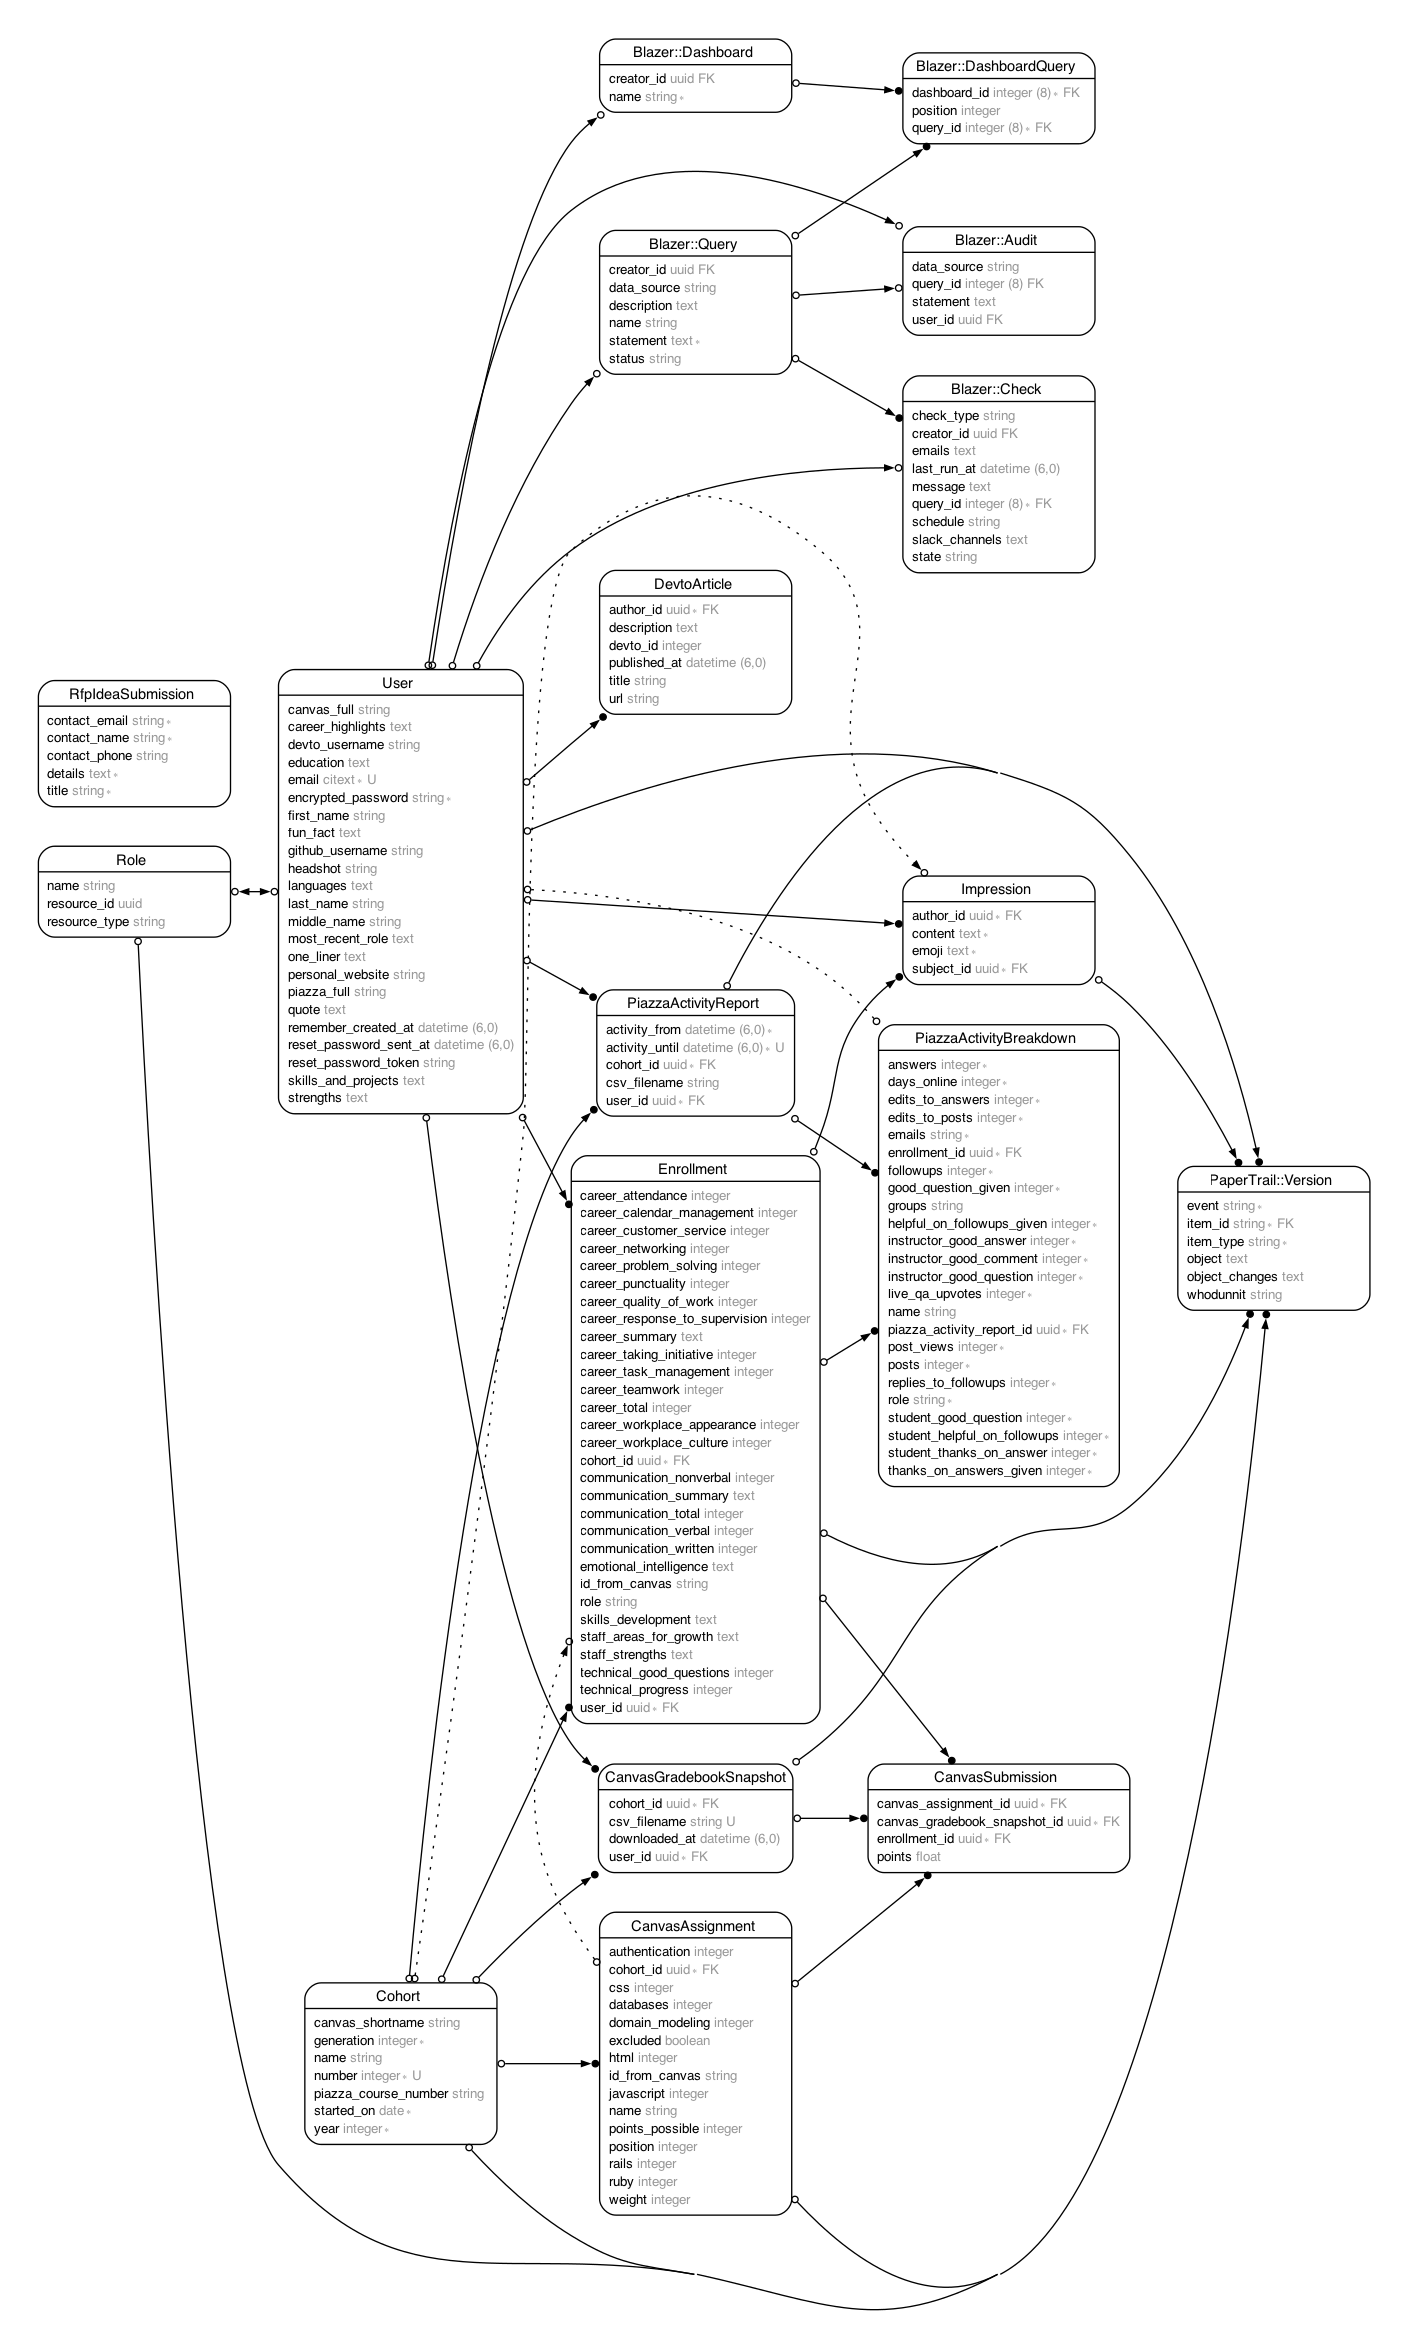
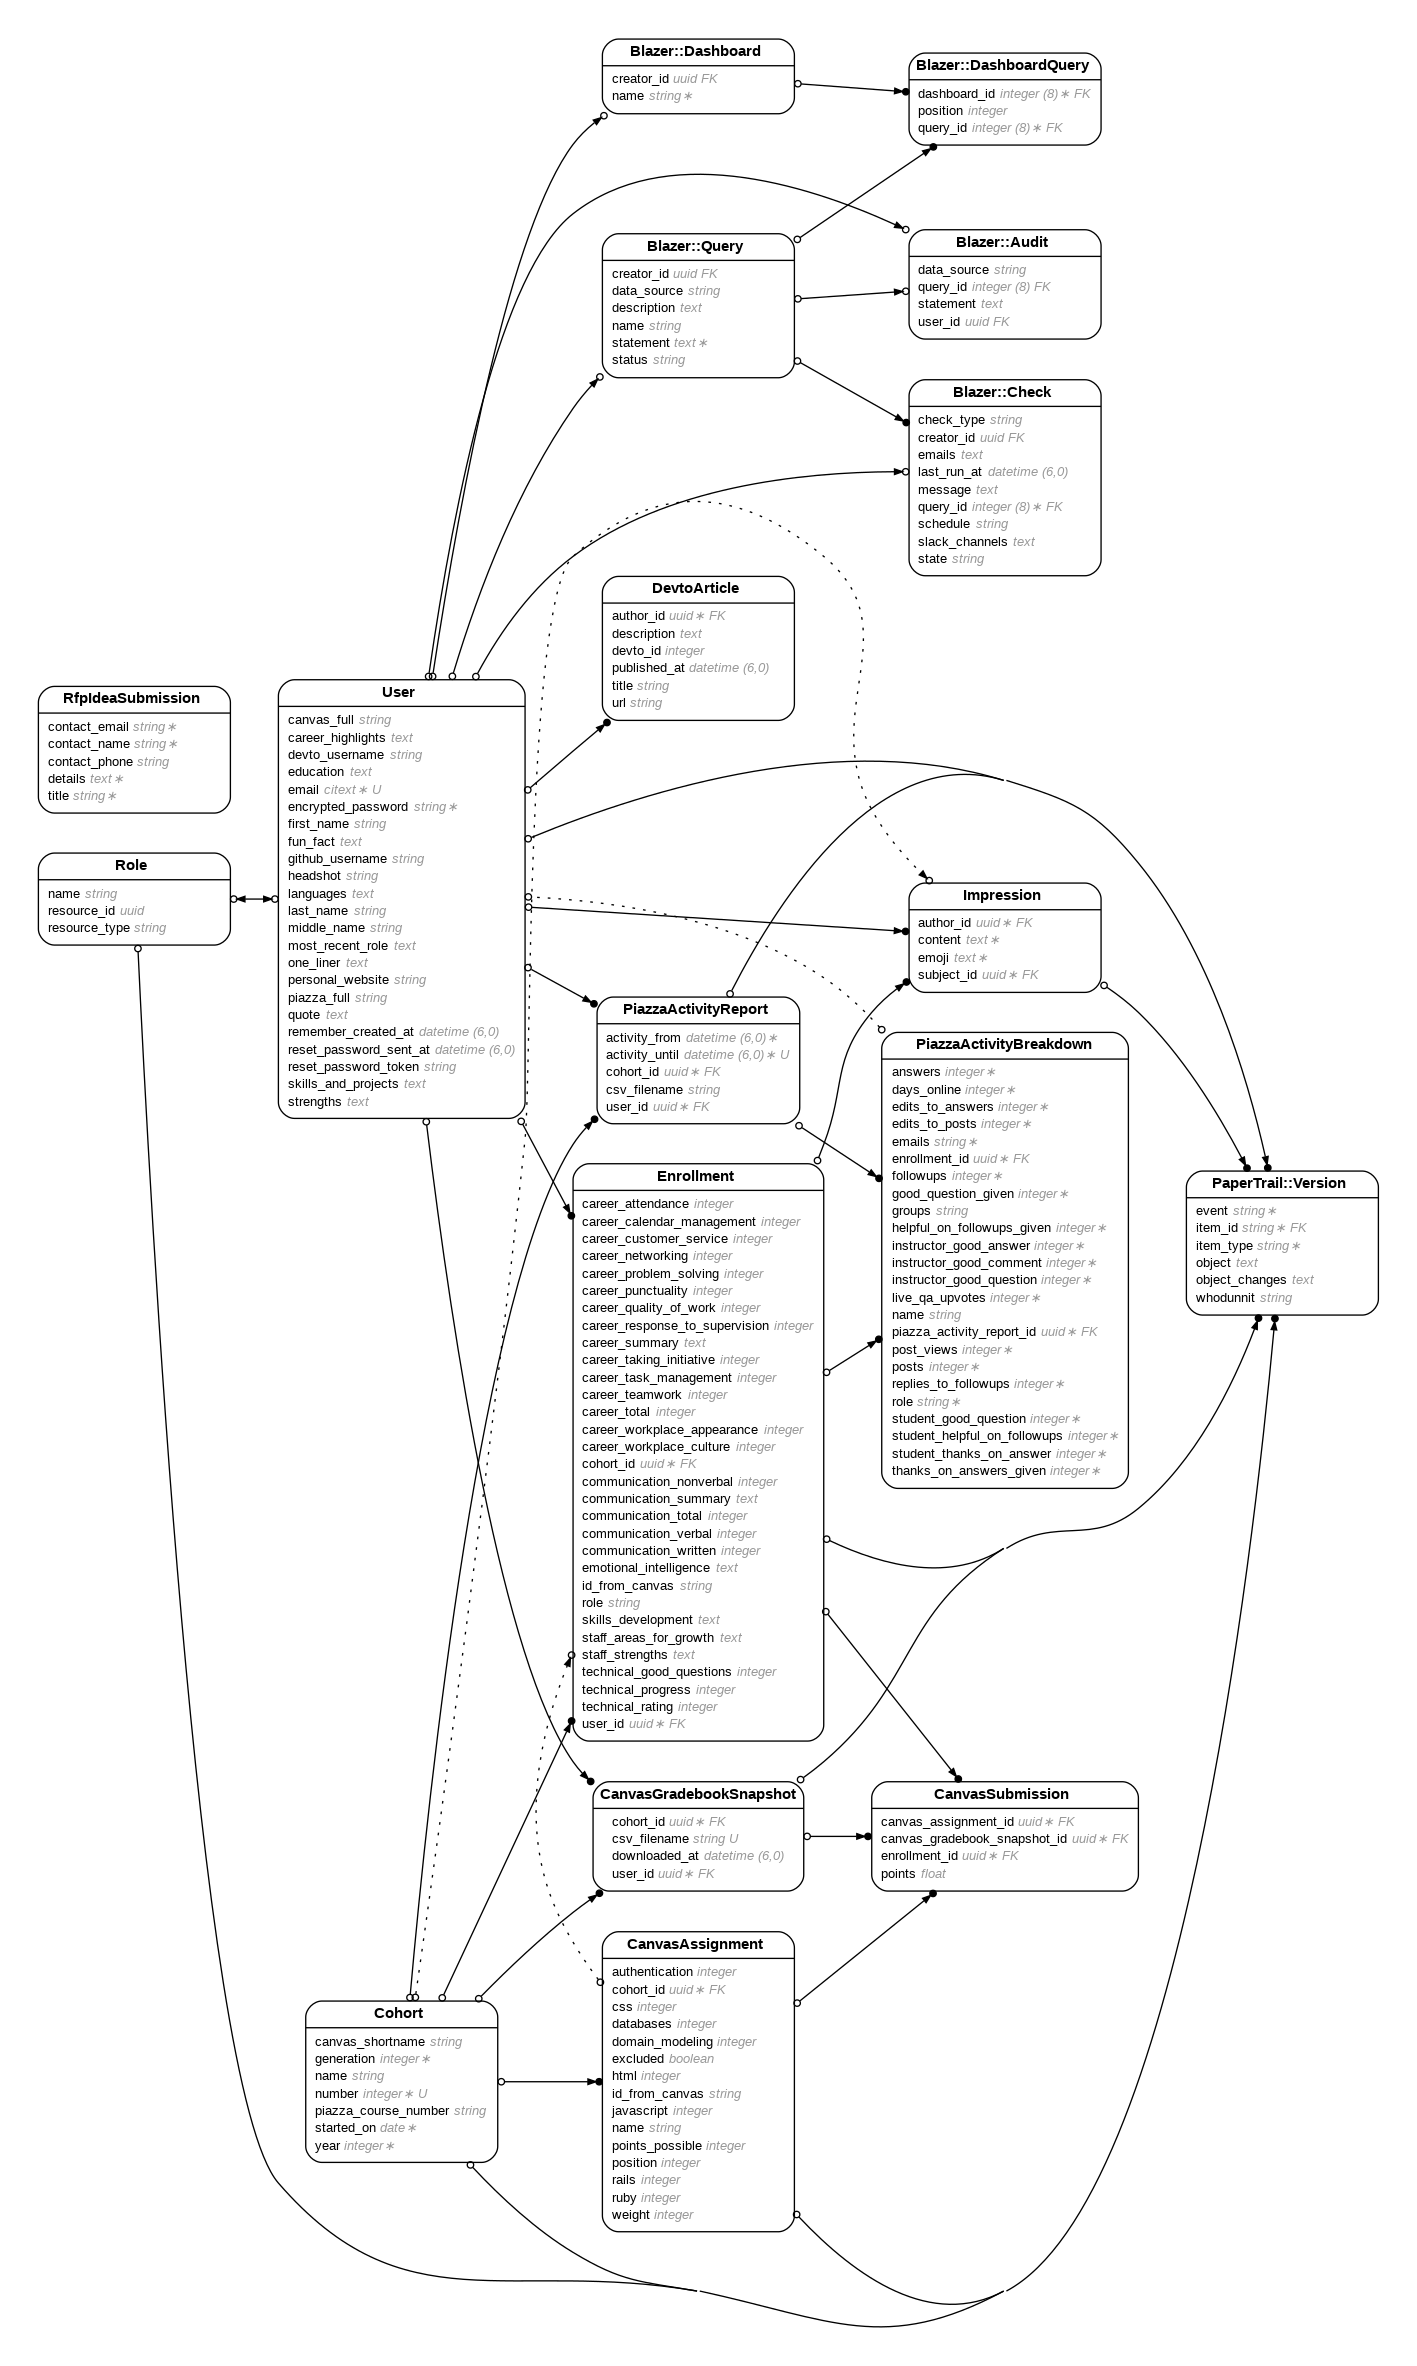
added technical_rating column and migrated

diff --git a/db/schema.rb b/db/schema.rb
@@ -10,7 +10,7 @@
 #
 # It's strongly recommended that you check this file into your version control system.
 
-ActiveRecord::Schema[7.0].define(version: 2024_02_22_203842) do
+ActiveRecord::Schema[7.0].define(version: 2024_09_04_181154) do
   # These are extensions that must be enabled in order to support this database
   enable_extension "citext"
   enable_extension "pgcrypto"
@@ -173,10 +173,21 @@ ActiveRecord::Schema[7.0].define(version: 2024_02_22_203842) do
     t.text "staff_strengths"
     t.text "staff_areas_for_growth"
     t.text "skills_development"
+    t.integer "technical_rating"
     t.index ["cohort_id"], name: "index_enrollments_on_cohort_id"
     t.index ["id_from_canvas"], name: "index_enrollments_on_id_from_canvas"
     t.index ["user_id", "cohort_id"], name: "index_enrollments_on_user_id_and_cohort_id", unique: true
     t.index ["user_id"], name: "index_enrollments_on_user_id"
+  end
+
+  create_table "impression_comments", id: :uuid, default: -> { "gen_random_uuid()" }, force: :cascade do |t|
+    t.uuid "impression_id", null: false
+    t.uuid "user_id", null: false
+    t.text "content", null: false
+    t.datetime "created_at", null: false
+    t.datetime "updated_at", null: false
+    t.index ["impression_id"], name: "index_impression_comments_on_impression_id"
+    t.index ["user_id"], name: "index_impression_comments_on_user_id"
   end
 
   create_table "impressions", id: :uuid, default: -> { "gen_random_uuid()" }, force: :cascade do |t|
@@ -253,6 +264,24 @@ ActiveRecord::Schema[7.0].define(version: 2024_02_22_203842) do
     t.index ["name"], name: "index_roles_on_name"
   end
 
+  create_table "shoutout_subjects", id: :uuid, default: -> { "gen_random_uuid()" }, force: :cascade do |t|
+    t.uuid "shoutout_id", null: false
+    t.uuid "user_id", null: false
+    t.datetime "created_at", null: false
+    t.datetime "updated_at", null: false
+    t.index ["shoutout_id"], name: "index_shoutout_subjects_on_shoutout_id"
+    t.index ["user_id"], name: "index_shoutout_subjects_on_user_id"
+  end
+
+  create_table "shoutouts", id: :uuid, default: -> { "gen_random_uuid()" }, force: :cascade do |t|
+    t.integer "author_id"
+    t.text "content"
+    t.uuid "user_id", null: false
+    t.datetime "created_at", null: false
+    t.datetime "updated_at", null: false
+    t.index ["user_id"], name: "index_shoutouts_on_user_id"
+  end
+
   create_table "users", id: :uuid, default: -> { "gen_random_uuid()" }, force: :cascade do |t|
     t.citext "email", default: "", null: false
     t.string "encrypted_password", default: "", null: false
@@ -316,4 +345,7 @@ ActiveRecord::Schema[7.0].define(version: 2024_02_22_203842) do
   add_foreign_key "piazza_activity_breakdowns", "piazza_activity_reports"
   add_foreign_key "piazza_activity_reports", "cohorts"
   add_foreign_key "piazza_activity_reports", "users"
+  add_foreign_key "shoutout_subjects", "shoutouts"
+  add_foreign_key "shoutout_subjects", "users"
+  add_foreign_key "shoutouts", "users"
 end

diff --git a/app/models/concerns/enrollment/endorsable.rb b/app/models/concerns/enrollment/endorsable.rb
@@ -1,9 +1,16 @@
 module Enrollment::Endorsable
   extend ActiveSupport::Concern
+  include ActiveRecord::Enum
 
   included do
     before_validation :set_career_total
     before_validation :set_communication_total
+
+    enum technical_rating: {
+      emerging: "emerging",
+      proficient: "proficient",
+      excellent: "excellent"
+    }
   end
 
   def set_career_total
@@ -61,10 +68,4 @@ module Enrollment::Endorsable
       :emerging
     end
   end
-
-  enum technical_rating: {
-    emerging: "emerging",
-    proficient: "proficient",
-    excellent: "excellent"
-  }
 end

diff --git a/app/models/enrollment.rb b/app/models/enrollment.rb
@@ -31,6 +31,7 @@
 #  staff_strengths                :text
 #  technical_good_questions       :integer          default(0)
 #  technical_progress             :integer          default(0)
+#  technical_rating               :integer
 #  created_at                     :datetime         not null
 #  updated_at                     :datetime         not null
 #  cohort_id                      :uuid             not null

diff --git a/spec/models/enrollment_spec.rb b/spec/models/enrollment_spec.rb
@@ -31,6 +31,7 @@
 #  staff_strengths                :text
 #  technical_good_questions       :integer          default(0)
 #  technical_progress             :integer          default(0)
+#  technical_rating               :integer
 #  created_at                     :datetime         not null
 #  updated_at                     :datetime         not null
 #  cohort_id                      :uuid             not null

diff --git a/db/migrate/20240904181154_add_technical_rating_to_enrollments.rb b/db/migrate/20240904181154_add_technical_rating_to_enrollments.rb
@@ -1,0 +1,5 @@
+class AddTechnicalRatingToEnrollments < ActiveRecord::Migration[7.0]
+  def change
+    add_column :enrollments, :technical_rating, :integer
+  end
+end
